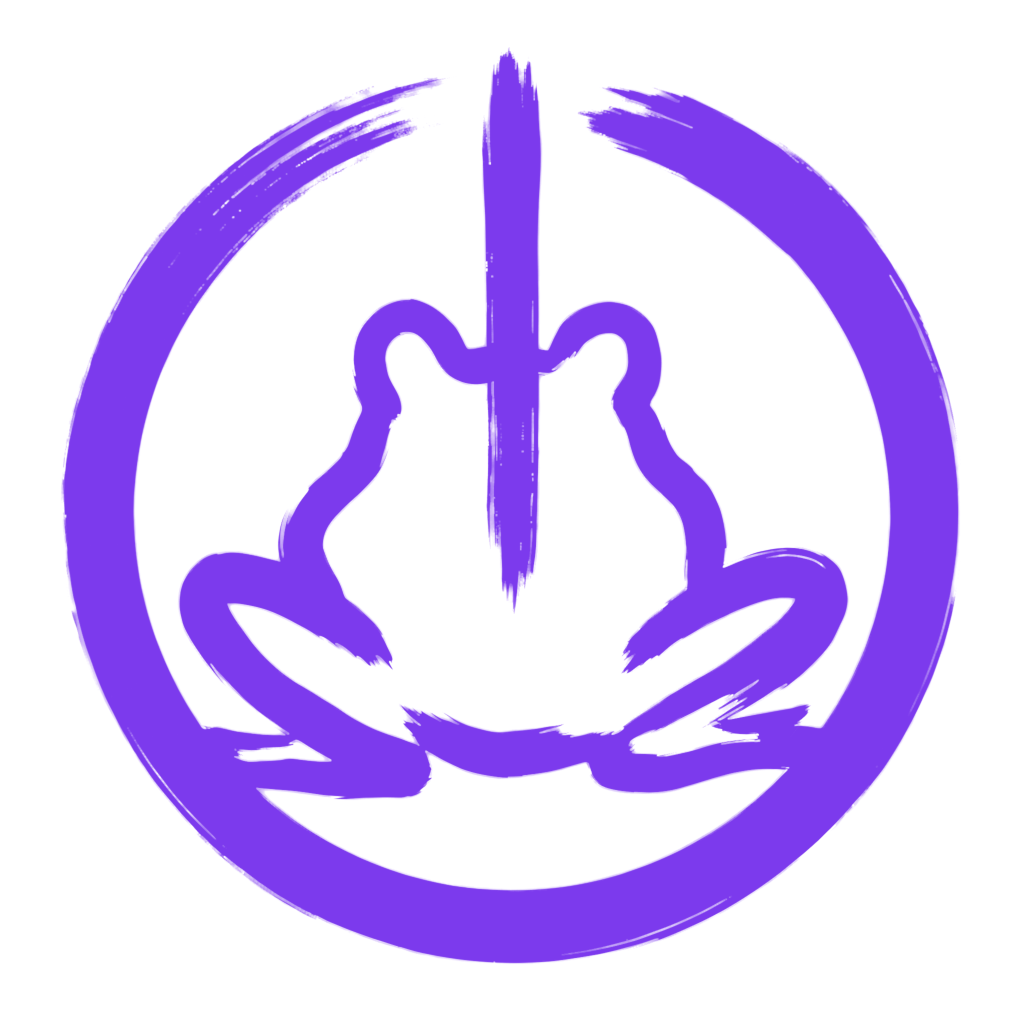
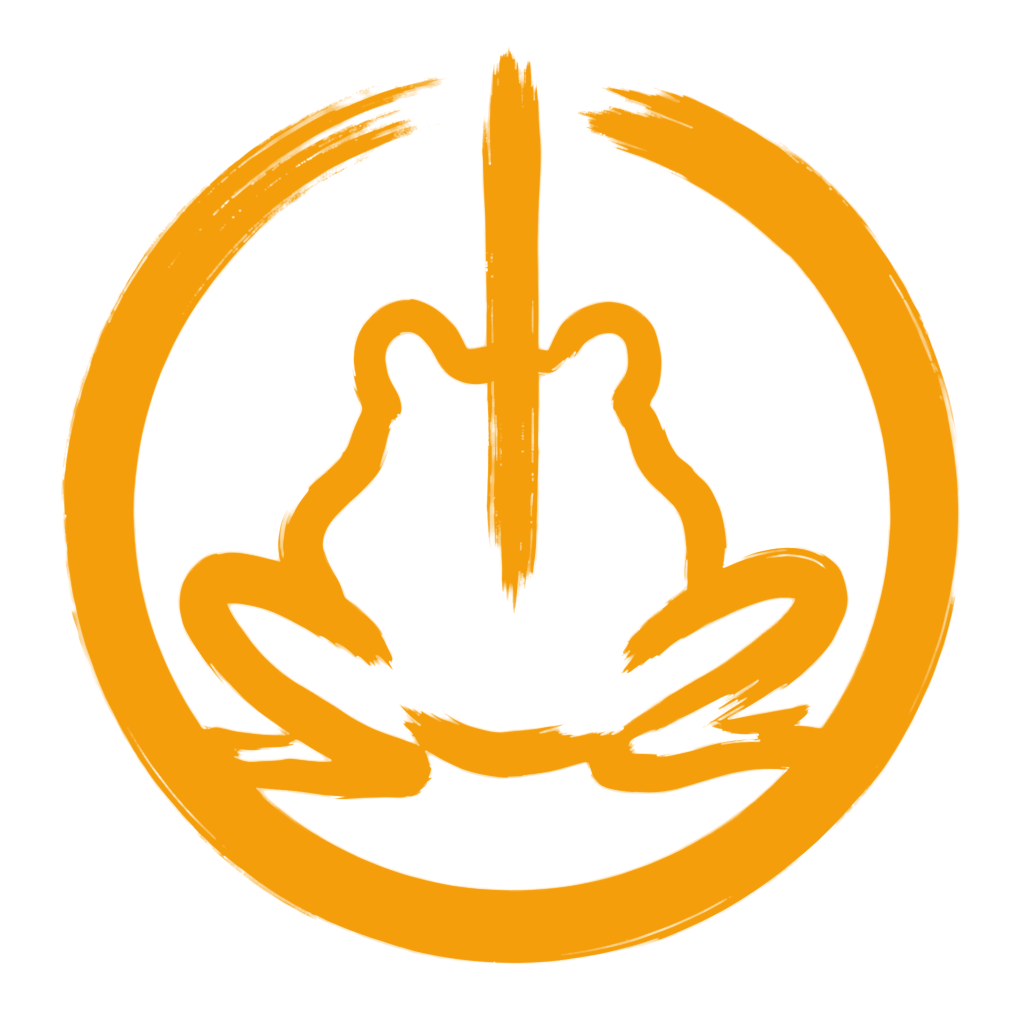
revert(brand): connecting goes back to amber, restoring the yellow-green pulse
Reverts the violet #7C3AED introduced two commits ago, and the #3A84CA before
it, back to the pre-rollout #F59E0B from 7f59e5e0.

The reasoning behind violet was sound in isolation and wrong about the screen.
Connecting is not a colour the user ever sees on its own: `Connecting()` is
brief, and for most of the wait the core reports `Connected()` with no URL-test
delay yet — a state connection_button paints in its own pale yellow-green
(#B9B067) while still LABELLING it "connecting". So the real sequence is
amber → yellow-green → amber, and the button's 600ms ColorTween between them is
what reads as a pulse while connecting. Giving `Connecting()` its own hue does
not add a state to that sequence, it splits the pulse into two unrelated
colours.

Worth recording separately, since it misled the earlier reasoning: the
`animated:` flag the button computes per state (line 171) is never read in
build(). It is dead. Nothing pulses because of it; the ColorTween is the only
animation on the orb colour.

The cost is real and now documented on the token: connecting and connected are
indistinguishable by colour alone, on the orb and in the tray. The label and the
tray tooltip carry the difference. That is how it behaved before the logo
rollout, and it is the behaviour asked for.

tray_icon_disconnected (which the tray uses for Connecting/Disconnecting, the
filename being historical) is regenerated at amber and is now byte-identical to
[…]

Changed region(s): [[0.0625, 0.0312, 0.9375, 0.9688]]

diff --git a/lib/core/theme/rayn_palette.dart b/lib/core/theme/rayn_palette.dart
@@ -92,19 +92,22 @@ class RaynPalette extends ThemeExtension<RaynPalette> {
   /// `AsyncError`.
   final Color stateDisconnected;
 
-  /// Violet, not a lighter blue.
+  /// The same amber as [stateConnected], restoring the pre-rollout behaviour.
   ///
-  /// The orb is white in BOTH themes and the state colour tints the mark on
-  /// it, so every state has to separate from every other state on one white
-  /// ground. The previous #3A84CA sat only dE 33 from [stateDisconnected] and
-  /// read as the same blue mid-transition; violet is dE 57 from it, keeps a
-  /// 5.7:1 contrast on white (the best of any candidate), and its L* 43 lands
-  /// between navy 27 and amber 72, so the ramp reads as progress.
+  /// This looks like a mistake and is not. Connecting is not a colour the user
+  /// sees on its own: `Connecting()` is brief, and the core reports
+  /// `Connected()` with no URL-test delay yet for most of the wait — a state
+  /// the button paints in its own pale yellow-green and still LABELS
+  /// "connecting" (see connection_button.dart). So the sequence is
+  /// amber → yellow-green → amber, and with the button's 600ms ColorTween
+  /// between them that is what reads as a pulse while connecting.
   ///
-  /// It also fixes a defect the eye could not have caught: under simulated
-  /// tritanopia the old blue landed dE 2 from the teal used for the
-  /// reconnect-required sub-state — indistinguishable. Violet's worst case
-  /// across the three dichromacies is dE 21.
+  /// Giving this its own hue splits that pulse into two unrelated colours.
+  /// Two have been tried and reverted: #3A84CA, and #7C3AED.
+  ///
+  /// The cost is real: connecting and connected are now indistinguishable by
+  /// colour alone, on the orb and in the system tray. The label and the tray
+  /// tooltip carry the difference instead.
   final Color stateConnecting;
   final Color stateConnected;
   final Color stateError;
@@ -143,7 +146,7 @@ class RaynPalette extends ThemeExtension<RaynPalette> {
     warning: Color(0xFFE8C547),
     danger: Color(0xFFE5484D),
     stateDisconnected: Color(0xFF1E3A8A),
-    stateConnecting: Color(0xFF7C3AED),
+    stateConnecting: Color(0xFFF59E0B),
     stateConnected: Color(0xFFF59E0B),
     stateError: Color(0xFFF24444),
     logoMark: Color(0xFFF59E0B),
@@ -173,7 +176,7 @@ class RaynPalette extends ThemeExtension<RaynPalette> {
     warning: Color(0xFFCA8A04),
     danger: Color(0xFFDC2626),
     stateDisconnected: Color(0xFF1E3A8A),
-    stateConnecting: Color(0xFF7C3AED),
+    stateConnecting: Color(0xFFF59E0B),
     stateConnected: Color(0xFFF59E0B),
     stateError: Color(0xFFF24444),
     logoMark: Color(0xFFF59E0B),

diff --git a/tool/logo_pipeline.py b/tool/logo_pipeline.py
@@ -43,7 +43,6 @@ DESKTOP_FRAC = 1.0
 # tints with (RaynPalette.state*); keeping them here means a generated tray
 # icon and an in-app tint can never drift apart.
 AMBER = (0xF5, 0x9E, 0x0B)   # connected  / brand default
-VIOLET = (0x7C, 0x3A, 0xED)  # connecting (see RaynPalette.stateConnecting)
 BLUE_DARK = (0x1E, 0x3A, 0x8A)   # disconnected
 RED = (0xF2, 0x44, 0x44)     # error
 WHITE = (0xFF, 0xFF, 0xFF)
@@ -357,7 +356,10 @@ def main():
     # Connecting/Disconnecting, and `tray_icon_dark` means "dark ink, for a
     # LIGHT taskbar".
     tray = {"tray_icon_connected": AMBER,      # Connected
-            "tray_icon_disconnected": VIOLET,  # Connecting / Disconnecting
+            # Connecting / Disconnecting. Same amber as connected, matching
+            # RaynPalette.stateConnecting — so this file and
+            # tray_icon_connected come out byte-identical by design.
+            "tray_icon_disconnected": AMBER,
             "tray_icon": WHITE,                # Disconnected, dark taskbar
             "tray_icon_dark": CHARCOAL}        # Disconnected, light taskbar
     ico_sizes = (16, 20, 24, 32, 40, 48, 64, 128, 256)
